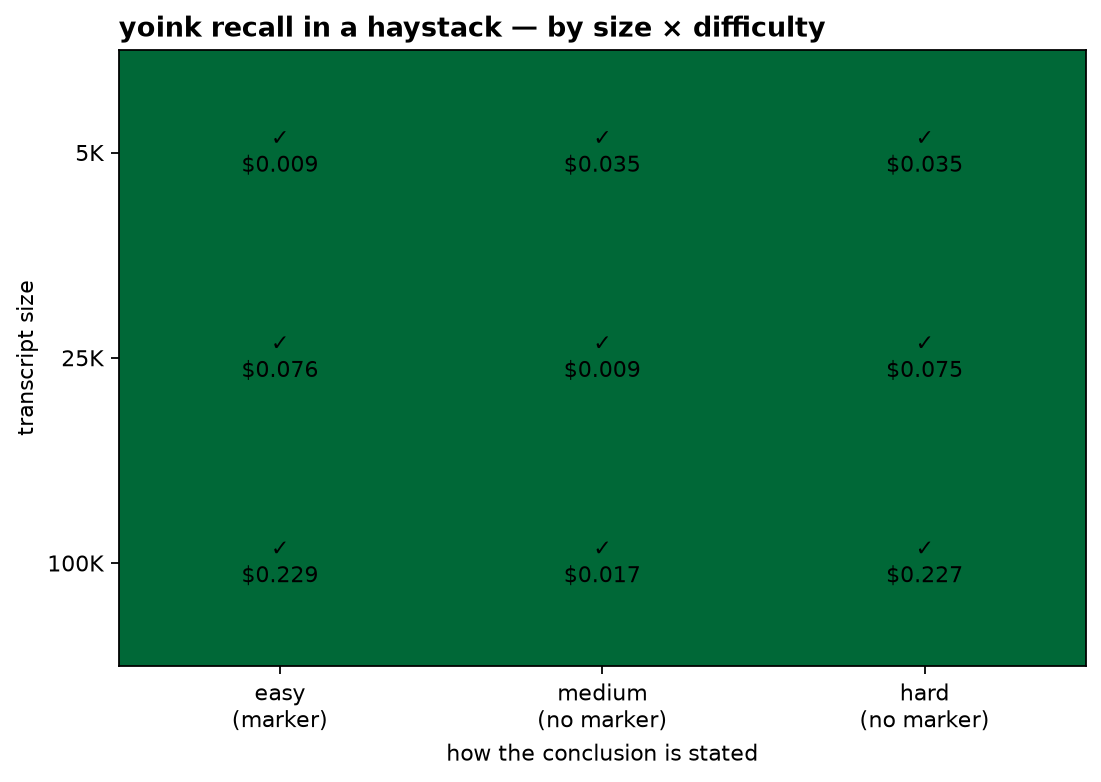
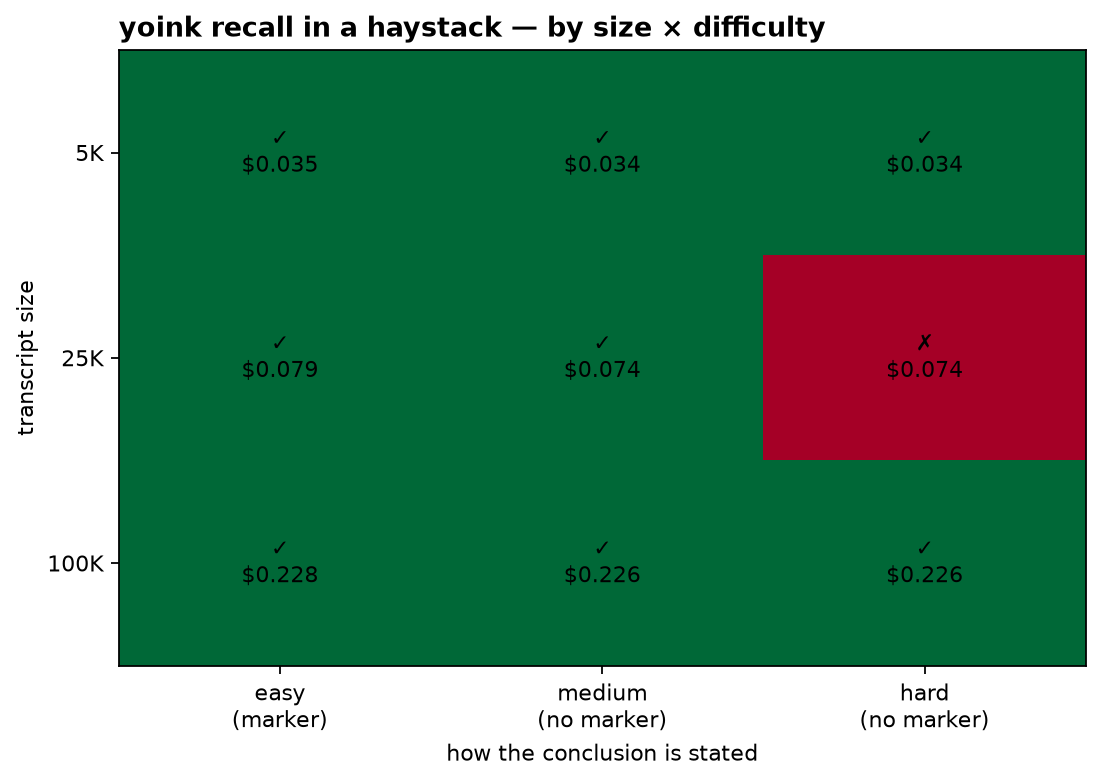
fix(benchmark): two review cleanups — no-conclusion grading + honest stress wording
From the updated BENCHMARK_REVIEW_NOTES.

- grade(): the conclusion_excludes anti-leak check now applies ONLY when the model
  claimed a conclusion. An abstaining answer that names a ruled-out term ("ruled out
  postgres") is correct, not a leak — fixing the false negative on the unanswerable
  stress cell (it now passes).
- stress README: report per-difficulty honestly — easy/medium hold 100% across sizes,
  but the no-marker "hard" variant is genuinely harder (8/9 cells; missed 25K this run).
  The difficulty knob is real, not decorative.
- root README: soften the no-conclusion claim to precision 1.00 / recall 0.89, and note
  it flags tentative hypotheses as tentative.

diff --git a/eval/evalkit.py b/eval/evalkit.py
@@ -103,11 +103,13 @@ def grade(fixture: Fixture, result: RecallAnswer) -> tuple[bool, list[str]]:
     answer = _normalize(result.answer)
     reasons: list[str] = []
 
-    # The anti-leak set always applies — even on the no_conclusion path, a result must
-    # never surface a curated forbidden conclusion.
-    for keyword in expect.get("conclusion_excludes", []):
-        if _normalize(keyword) in answer:
-            reasons.append(f"answer should not contain: {keyword!r}")
+    # Anti-leak applies only when the model CLAIMED a conclusion. On the no_conclusion path the
+    # answer isn't asserting a cause, so naming a ruled-out term ("ruled out postgres") is correct,
+    # not a leak — penalising it was a false negative.
+    if not result.no_conclusion:
+        for keyword in expect.get("conclusion_excludes", []):
+            if _normalize(keyword) in answer:
+                reasons.append(f"answer should not contain: {keyword!r}")
 
     if "no_conclusion" in expect:
         if bool(expect["no_conclusion"]) != result.no_conclusion:

diff --git a/tests/test_evalkit.py b/tests/test_evalkit.py
@@ -123,3 +123,13 @@ def test_grade_alias_groups_accept_synonyms():
     fixture = _fixture(expect={"conclusion_contains_any": [["clock drift", "clock skew", "ntp"]]})
     assert grade(fixture, RecallAnswer(answer="it was clock skew from NTP sync", answer_confidence="high"))[0]
     assert not grade(fixture, RecallAnswer(answer="it was a cache bug", answer_confidence="high"))[0]
+
+
+def test_grade_no_conclusion_may_name_a_ruled_out_term():
+    # Abstaining while naming an excluded term AS ruled-out is correct, not a dead-end leak.
+    fixture = _fixture(expect={"no_conclusion": True, "conclusion_excludes": ["postgres"]})
+    ans = RecallAnswer(answer="No root cause found; ruled out postgres.", answer_confidence="none", no_conclusion=True)
+    assert grade(fixture, ans)[0]
+    # but a SETTLED answer that surfaces the excluded term still fails.
+    settled = RecallAnswer(answer="the cause was postgres", answer_confidence="high", no_conclusion=False)
+    assert not grade(_fixture(expect={"conclusion_excludes": ["postgres"]}), settled)[0]

diff --git a/benchmark/README.md b/benchmark/README.md
@@ -89,11 +89,15 @@ implied conclusion.
 
 ![stress](stress.png)
 
-- **Recall held at every size AND every difficulty — easy / medium / hard all 100%.** Even with no
-  marker and a misdirection, yoink pulled the ratified conclusion at 5K, 25K and 100K.
+- **Easy and medium held at 100% across all sizes; the *hard* variant is genuinely harder.** With an
+  explicit marker (easy) or natural prose (medium), yoink pulled the conclusion at every size. The hard
+  variant — conclusion only *implied*, after a correction off a dead end, no marker — passed **8 of 9**
+  answerable cells (it missed the 25K cell this run). With one sample per cell it's noisy run-to-run,
+  but the difficulty knob is real, not decorative — it no longer guarantees a pass the way the marker did.
 - **Cost scales gently:** **$0.026 → $0.053 → $0.158** for 5K → 25K → 100K.
 - **Distractors don't fool it**, and it **picks the updated decision over the superseded one** at scale.
-- **The one miss is the unanswerable cell** — same abstention edge as Track A.
+- **On the unanswerable cell it correctly abstains** (no_conclusion, confidence none) — and naming a
+  ruled-out term while abstaining no longer counts as a leak (a grader false-negative the review caught).
 
 ## Did it hit the bar?
 

diff --git a/README.md b/README.md
@@ -91,7 +91,8 @@ uv run yoink-ask --all "staging" "how do I access the server?"
 - **It reads, it never interrupts.** yoink looks at the other session's saved history. It never touches
   the session you have running — the answer is from its last saved moment.
 - **It shows its work.** Which session, how confident. Trust it, or correct it.
-- **If it never reached a conclusion, it says so.** It won't invent one.
+- **If it never reached a conclusion, it's built to say so** rather than invent one — and to flag a
+  *tentative* hypothesis as tentative (measured abstention precision 1.00, recall 0.89).
 
 ## FAQ
 